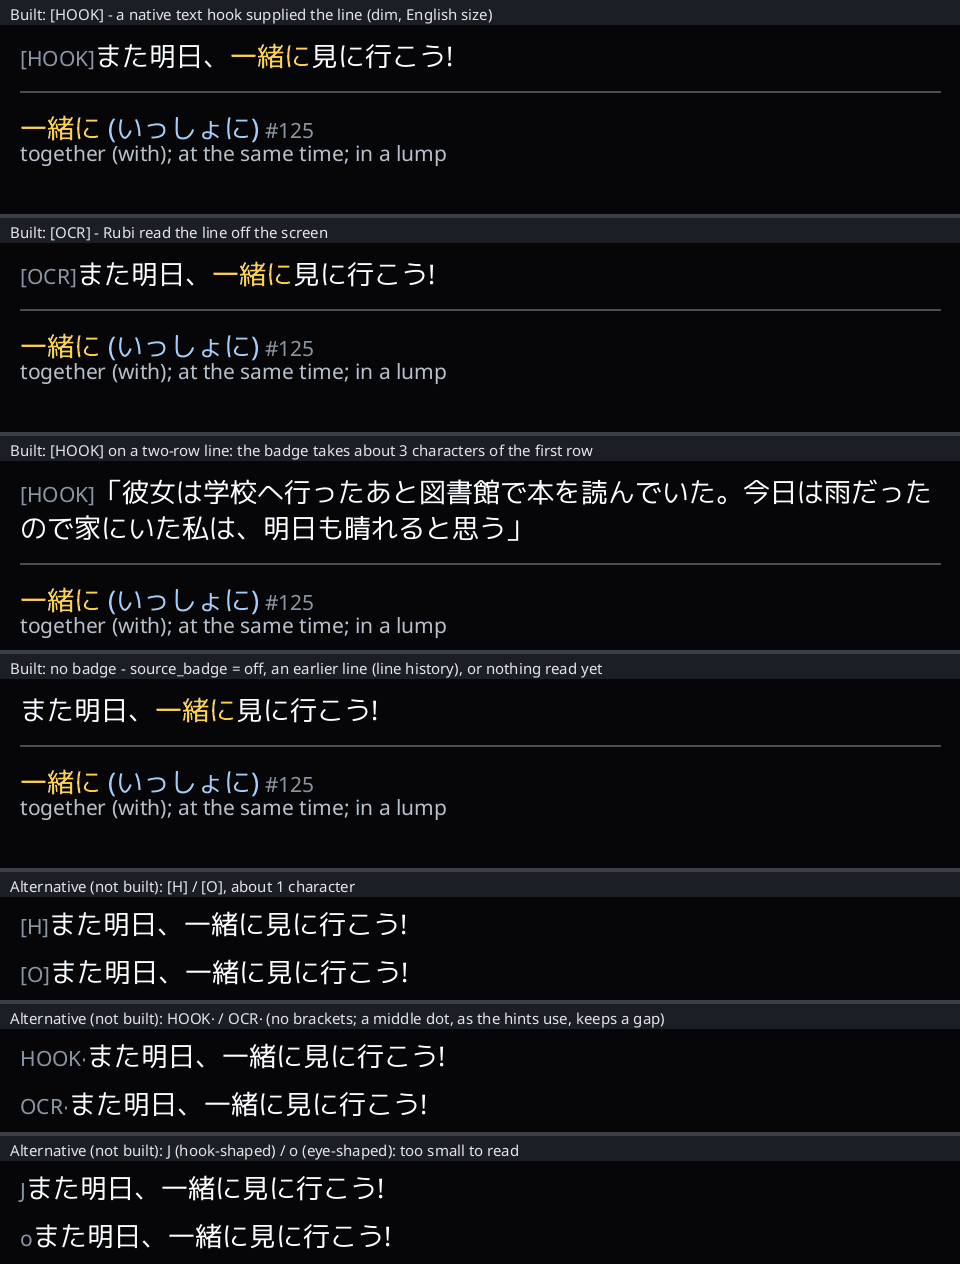
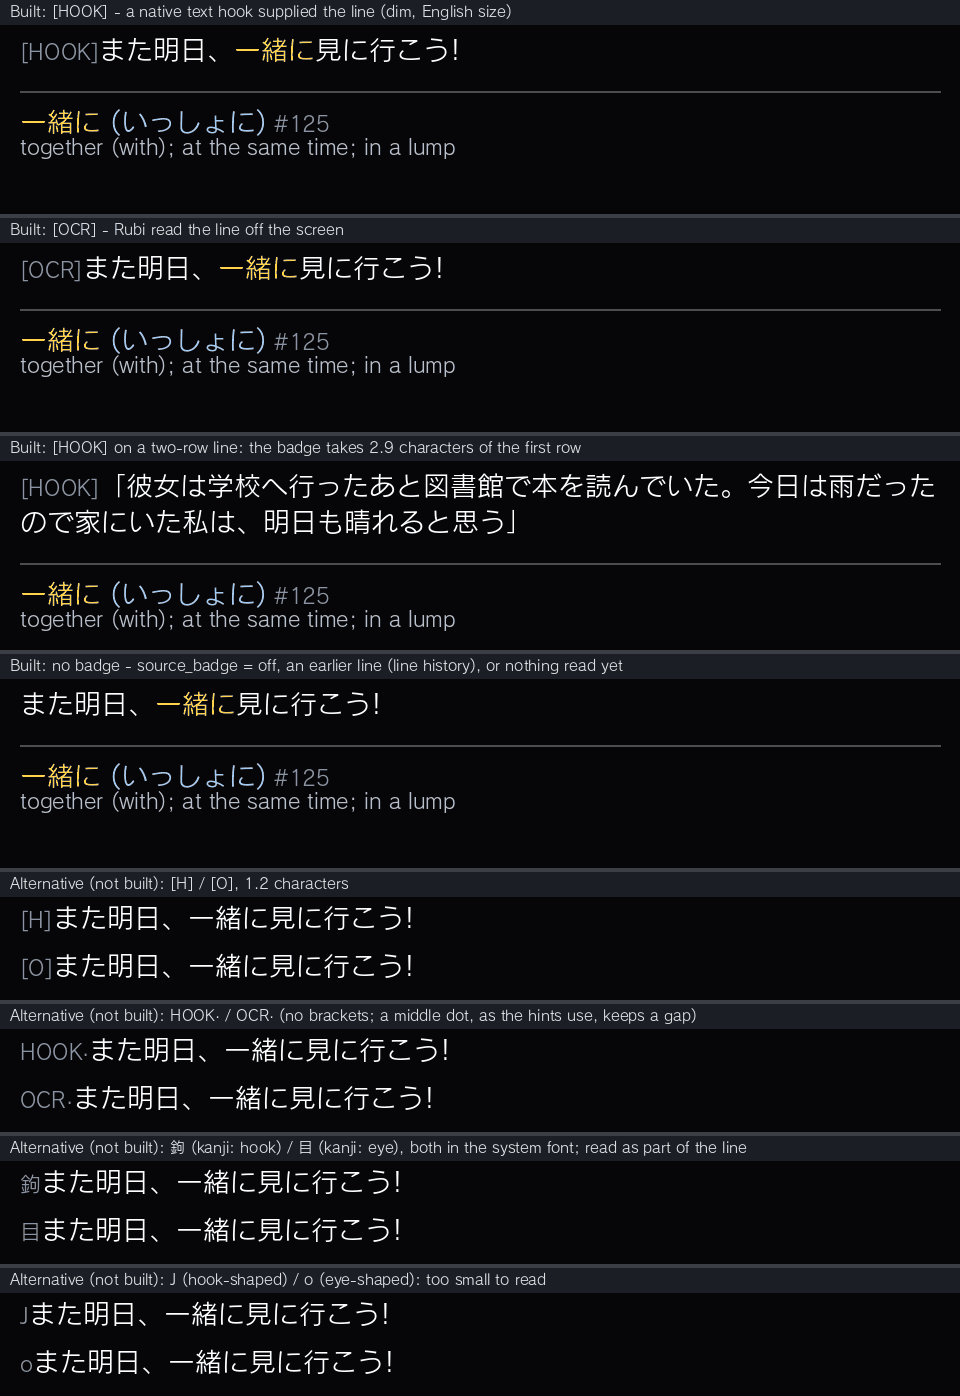
Docs: the Vita's own fonts checked (no 🪝 👁 ⚓ ✓ in any of its 20 PVFs), the rendering in them
Sony's font package (PSP2UPDAT.PUP, the one Vita3K installs) read on the host: no system PVF has a
code point beyond U+FFFF; jpn0 has ◉ ◎ 目 鉤. The host rendering is redrawn in jpn0/ltn0, with the
widths measured in them ([HOOK] 2.9, [OCR] 2.3 Japanese characters) and a kanji alternative (鉤/目).

diff --git a/docs/native-hooks.md b/docs/native-hooks.md
@@ -268,12 +268,14 @@ prefer that over an image icon". The popup's current text starts with a dim `[HO
 read it shows a stream's text (`text_from` is a stream's ID: the stream agreed with OCR, or a locked one
 answered without OCR) and `[OCR]` when it shows OCR's (`text_from` 0).
 
-<img src="img/source-badge-host.png" width="640" alt="The popup's top in seven states: [HOOK] and [OCR], dim and small, before the line また明日、一緒に見に行こう! with 一緒に highlighted and its entry below; [HOOK] before a line of two rows; the line without a badge; and three alternatives that are not built: [H] and [O], HOOK· and OCR·, J and o.">
+<img src="img/source-badge-host.png" width="640" alt="The popup's top: [HOOK] and [OCR], dim and small, before the line また明日、一緒に見に行こう! with 一緒に highlighted and its entry below; [HOOK] before a line of two rows; the line without a badge; and four alternatives that are not built: [H] and [O], HOOK· and OCR·, the kanji 鉤 (hook) and 目 (eye), J and o.">
 
 *A host rendering of the code's own spans (the header from `core/styled.c`'s `vjo_styled_badge` and
-`vjo_styled_history`, the entry from `vjo_styled_entry`, the default sizes), drawn in M PLUS 1p and Noto
-Sans at the overlay's geometry with a greedy wrap: not a console capture. The alternatives are the same
-spans with the badge's text replaced, a one-line change of `core/styled.c`'s `source_badges`.*
+`vjo_styled_history`, the entry from `vjo_styled_entry`, the default sizes) in the Vita's own system
+fonts, SCE Rodin Cattleya JPN and LATIN Regular (`jpn0.pvf`, `ltn0.pvf` of Sony's font package, below),
+at the overlay's geometry with a greedy wrap: not a console capture (PAF's layout is the console's). The
+alternatives are the same spans with the badge's text replaced, a one-line change of `core/styled.c`'s
+`source_badges`.*
 
 - **What it marks**: the source of the job that read the shown text (`shell/worker.c`
   `local_text_source`), or of the refresh that replaced it; a refresh that reads the same text leaves it,
@@ -286,24 +288,32 @@ spans with the badge's text replaced, a one-line change of `core/styled.c`'s `so
   counts it, as it counts an earlier line's dimmed row, so the cursor, taps and the highlight start at
   the text's first character. No space follows it: `core/linebreak.h` allows no break between Latin
   letters and Japanese, and `VjoWrap.keep` stops the overlay's re-wrap from breaking right after it
-  (before a `「`, where the rules allow one), so it never takes a row of its own; the first row has its
-  width less room, about three characters at the default sizes [estimate: the rendering's fonts].
+  (before a `「`, where the rules allow one), so it never takes a row of its own. The first row has its
+  width less room: `[HOOK]` is 79 px and `[OCR]` 63 px at the default sizes (21 px beside 27 px text),
+  2.9 and 2.3 of the 27 px Japanese characters [measured: the advance widths in `ltn0.pvf` and
+  `jpn0.pvf`; PAF's own spacing is unmeasured], so a line that filled its rows can take one more
+  (the header grows to its three rows, then scrolls to the selected word, as before).
   Host tests: `test_core.c` (`styled_source_badge`, `source_badge_config`), `test_cursor_nav.c`
   (`the_source_badge_is_never_the_cursors`), `test_wrap_fix.cpp`
   (`the_source_badge_keeps_the_wrap_rules`) and `test_shell_worker.c`
   (`the_source_badge_follows_the_texts_source`).
 - **Why not the emoji, or a PlayStation symbol**: the popup is SceShell's PAF `ui::Text`, drawn with
   the fonts SceShell's PAF loaded (its init takes a Japanese, a Latin, a Hangul and a Chinese PVF font,
-  `paf/framework.h`); the Shell opens no font itself (it imports no `ScePvf`). The console draws ✓
-  (U+2713, outside JIS X 0208) as `_` (`core/styled.h`), and 👁 (U+1F441, Unicode 7.0) and 🪝 (U+1FA9D,
-  13.0) are newer still [not checked on a console: the system's PVF fonts are in a separate firmware
-  package, not here]. [libvita2d #55](https://github.com/xerpi/libvita2d/issues/55)'s two candidates
-  have no hook, anchor or eye either: the firmware's `vs0:data/external/font/emoji/imagefont.bin` (3.74:
+  `paf/framework.h`); the Shell opens no font itself (it imports no `ScePvf`). None of the system's 20
+  PVF fonts (`sa0:data/font/pvf/`: Sony's font package, `PSP2UPDAT.PUP` of 2019-09-24, MD5
+  `8b5f60b56c3da8365b973dba570c53a5`, from Sony's update server, the file Vita3K installs) has a code
+  point above U+FFFF, so none has 👁 (U+1F441) or 🪝 (U+1FA9D), and none has ⚓ (U+2693) or ✓ (U+2713,
+  which the console draws as `_`, `core/styled.h`: the same finding); `jpn0.pvf` (SCE Rodin Cattleya
+  JPN Regular, 9,861 code points) has ◉ ◎ 目 and 鉤 ("hook") [measured: their OpenType `cmap`s with
+  fontTools 4.60.1; the package was installed into a scratch directory and deleted afterwards].
+  [libvita2d #55](https://github.com/xerpi/libvita2d/issues/55)'s two candidates have no hook, anchor
+  or eye either: the firmware's `vs0:data/external/font/emoji/imagefont.bin` (3.74:
   55,110 B, MD5 `59b8d380817083deaf6b3c1cae145507`, 45 icons at U+2120 and U+F880-U+F8ED: the face
   buttons, the d-pad, L and R, SELECT, START, PS, trophies, PS Plus and PlayStation word marks; the
   PS3's 332-icon file has emoji the Vita's lacks) [measured: decoded on the host from the official 3.74
-  update, psdevwiki's format], and `sa0:data/font/pvf/psexchar.pvf` (PlayStation symbols at ASCII code
-  points: buttons, arrows, a keyboard, a home, a push pin; [chart](https://github.com/nobodywasishere/vita_Symbols)).
+  update, psdevwiki's format], and `sa0:data/font/pvf/psexchar.pvf` ("PSExChar", 39 code points, the
+  PlayStation symbols at `0`-`9`, `A`-`G` and ASCII punctuation: buttons, arrows, a keyboard, a home, a
+  push pin [measured: its `cmap`]; [chart](https://github.com/nobodywasishere/vita_Symbols)).
   An imagefont glyph would cost nothing if PAF draws its code points in a `ui::Text` as it does in
   LiveArea's titles (unverified for the overlay's page); a PVF glyph or a bitmap would need libpvf or a
   texture in SceShell, allocations after boot (AGENTS.md rule 1).

diff --git a/CHANGELOG.md b/CHANGELOG.md
@@ -17,11 +17,12 @@ been reported.
   hook supplied the line and `[OCR]` when Rubi read it off the screen (the owner asked for a hook emoji
   and an eye, then for ASCII over an image). An earlier line (line history) has none, since its source
   is not kept; `source_badge = off` in `config.ini` hides it (no setting in the app). It sits on the
-  text's first row, about three characters wide at the default sizes, never on a row of its own, and
-  the cursor, taps and the highlight skip it. Emoji are not used: the system fonts the popup draws
-  with lack even ✓ (the console draws it as `_`), so 🪝 and 👁 are not expected there (unchecked), and
-  the firmware's `imagefont.bin` and `psexchar.pvf` have no hook or eye glyph
-  ([details](docs/native-hooks.md#the-popups-source-badge)). Host-tested only.
+  text's first row, as wide as 2.9 Japanese characters (`[OCR]` 2.3) at the default sizes, never on a
+  row of its own, and the cursor, taps and the highlight skip it. Emoji are not used: none of the
+  Vita's 20 system fonts has a character beyond U+FFFF, so none has 🪝 or 👁 (nor ⚓ or ✓, which the
+  console draws as `_`), and the firmware's `imagefont.bin` and `psexchar.pvf` have no hook or eye
+  glyph [measured: the fonts of Sony's font package and the 3.74 update, on the host;
+  [details](docs/native-hooks.md#the-popups-source-badge)]. Host-tested only.
 
 ### Changed
 

diff --git a/docs/guide.md b/docs/guide.md
@@ -325,9 +325,9 @@ reported console run. The behaviour below is checked on the host.
   starts with a dim `[HOOK]` when a native text hook supplied the line (the hook agreed with OCR, or
   answered for it once trusted) and `[OCR]` when Rubi read it off the screen. An earlier line (line
   history) has none, since its source is not kept; `source_badge = off` in `config.ini` (no setting in
-  the app; `on` by default) hides it. The badge is part of the text's first row (about three
-  characters' width at the default sizes) and never takes a row of its own; the cursor, taps and the
-  highlight skip it ([details](native-hooks.md#the-popups-source-badge)). Source selection is
+  the app; `on` by default) hides it. The badge is part of the text's first row (at the default sizes
+  `[HOOK]` is as wide as 2.9 Japanese characters, `[OCR]` 2.3) and never takes a row of its own; the
+  cursor, taps and the highlight skip it ([details](native-hooks.md#the-popups-source-badge)). Source selection is
   automatic; there is no hook number or Triangle source picker. Technical source details remain in the
   debug log.
 - **The Games page** tags a game with a hook entry: `Hook` for Rubi's own, `Luna hook` for a ported
